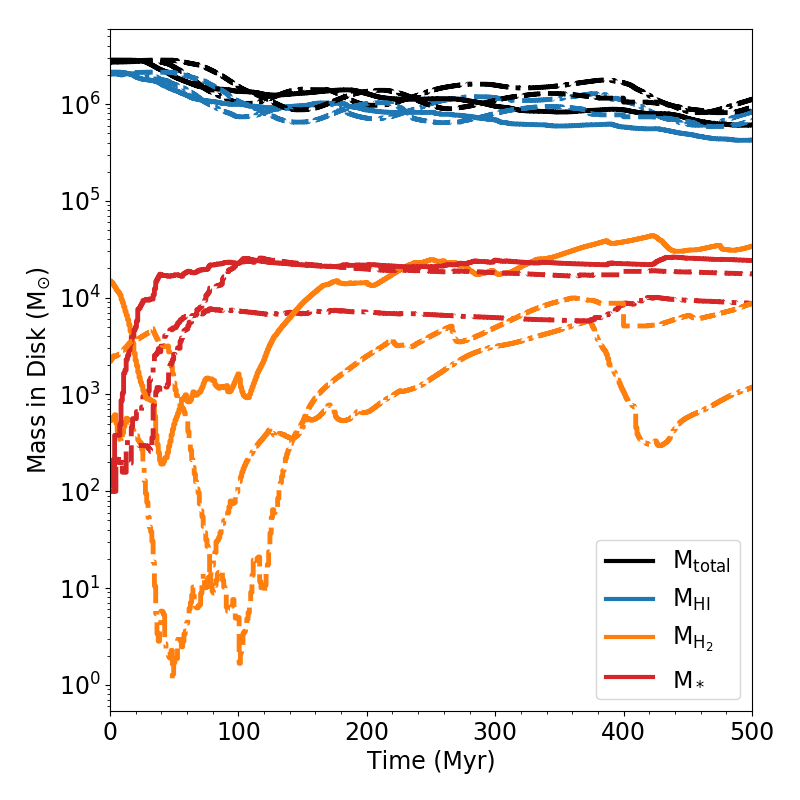
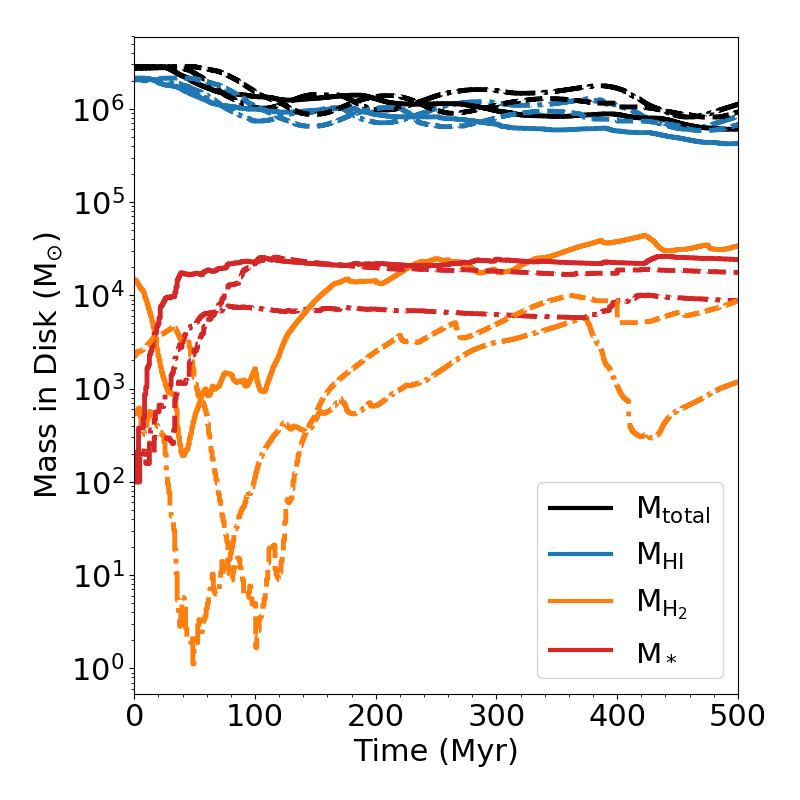
spelling check and font resize in res plots

diff --git a/main.tex b/main.tex
@@ -1,5 +1,3 @@
-%\documentclass[twocolumn]{aastex61}
-%\pdfoutput=1 %for arXiv submission
 \documentclass[fleqn,usenatbib,useAMS]{mnras}
 \usepackage{graphicx}	% Including figure files
 \usepackage{amsmath}	% Advanced maths commands
@@ -16,29 +14,20 @@
 %\usepackage[T1]{fontenc}
 \usepackage[figure,figure*]{hypcap}
 
-\hypersetup{draft}
+%\hypersetup{draft}
 %\usepackage{multirow}
 %\usepackage{mathtools}
 %\renewcommand*{\sectionautorefname}{Section} %for \autoref
 %\renewcommand*{\subsectionautorefname}{Section} %for \autoref
 %\usepackage{graphicx}
-
-%\usepackage{apjfonts} 
 %\usepackage{natbib} % bibliography
 
 
 %\usepackage[active,floats,tightpage]{preview}
 %    \setlength\PreviewBorder{1em}
 
-
-%\shorttitle{Feedback with Individual Stars}
-%\shortauthors{Emerick, Bryan, Mac Low}
 \newcommand{\msun}{M$_{\odot}$}
 \newcommand{\ccunit}{cm$^{-3}$}
-
-%%%%%%%%%%%%%%%%%%\hypersetup{draft}
-% For bibtex
-
 
 \title[Feedback with Individual Stars]{Simulating an Isolated Dwarf Galaxy with Energetic Feedback and Chemical Yields from Individual Stars}
 
@@ -161,7 +150,7 @@ For the first time in galaxy-scale simulations, we track galactic chemodynamical
 % KVJ: Possibly include a discussion on uncertainties in stellar yields
 %
 
-Above some mass $M_{\rm trans}$ within the unsampled range of 7--12 M$_{\odot}$, stars no longer undergo AGB wind phases but end their lives instead as core collapse SNe. Where this transition occurs is uncertain, but is commonly taken to be at a mass $M_{\rm trans} \sim 8$--10~M$_{\odot}$. This is a free parameter in our model; we take $M_{\rm trans} = 8$~M$_{\odot}$ as our fiducial value. In our model, stars below this mass eject their wind yields in an AGB phase only at the end of their lives, typically over a period comparable to or less than a few time steps ($\lesssim 10$ kyr). Stars above this mass are assumed to eject their stellar yields via line-driven stellar winds at a constant mass loss rate throughout their lifetime (neglecting Wolf-Rayet and luminous blue variable phases), ending their lives as a core-collapse SN (see Sect.~\ref{sec:stellar winds} for details on the wind energetics). Varying $M_{\rm trans}$ changes both the time at which yields for stars around this mass are ejected (for reference, the lifetime of an 8 M$_{\odot}$ star is about 35--40~Myr), and the energy injection from these winds. \citet{Cote2017a} explores how the choice of $M_{\rm trans}$ affects galaxy abundances in a one-zone model. We neglect the effects of binary star evolution on stellar feedback, and discuss the significance of this in Sect.~\ref{sec:binary stars}.
+Above some mass $M_{\rm trans}$ within the unsampled range of 7--12 M$_{\odot}$, stars no longer undergo AGB wind phases but end their lives instead as core collapse SNe. Where this transition occurs is uncertain, but is commonly taken to be at a mass $M_{\rm trans} \sim 8$--10~M$_{\odot}$; we take $M_{\rm trans} = 8$~M$_{\odot}$. In our model, stars below this mass eject their wind yields in an AGB phase only at the end of their lives, typically over a period comparable to or less than a few time steps ($\lesssim 10$ kyr). Stars above this mass are assumed to eject their stellar yields via line-driven stellar winds at a constant mass loss rate throughout their lifetime (neglecting Wolf-Rayet and luminous blue variable phases), ending their lives as a core-collapse SN (see Sect.~\ref{sec:stellar winds} for details on the wind energetics). Varying $M_{\rm trans}$ changes both the time at which yields for stars around this mass are ejected (for reference, the lifetime of an 8 M$_{\odot}$ star is about 35--40~Myr), and the energy injection from these winds. \citet{Cote2017a} explores how the choice of $M_{\rm trans}$ affects galaxy abundances in a one-zone model. We neglect the effects of binary star evolution on stellar feedback, and discuss the significance of this in Sect.~\ref{sec:binary stars}.
 
 There are large uncertainties in stellar yields for stars more massive than 25 M$_{\odot}$ \citep[see ][and references therein]{Cote2016}. Indeed, even the exact fate of these stars is uncertain \citep[e.g.][]{Woosley2002,Zhang2008,Ugliano2012}, particularly as a function of metallicity \citep{Fryer2012} with potentially multiple stable and unstable regimes as a function of mass \citep{Heger2003}. Due to this uncertainty, and to avoid erroneously extrapolating from our yield tables, we adopt the simplest model and assume all stars above 25 M$_{\odot}$ end their life through direct collapse to a compact object with no further mass, metal, or energy ejection.
 
@@ -518,7 +507,7 @@ have been ejected beyond the virial radius. (See Figures \ref{fig:mass_outflow},
 
 \item 
 The gas scale height is thin ($\sim 50$~pc), yet resolved, 
-beyond our stellar radius, with larger scale heights ($\sim 100$--200~pc) driven by feedback interior to the stellar radius. This is comparable to the resolution limit of the diffuse HI in observed, gaseous ultrafaint dwarfs. At a spatial resolution of 100~pc, our galaxy has a peak HI column density $N_{\rm HI} = 2.8--4.3 \times 10^{20}$~cm$^{-2}$, depending on inclination (See Figure~\ref{fig:scale_height}).
+beyond our stellar radius, with larger scale heights ($\sim 100$--200~pc) driven by feedback interior to the stellar radius. This is comparable to the resolution limit of the diffuse HI in observed, gaseous ultrafaint dwarfs. At a spatial resolution of 100~pc, our galaxy has a peak HI column density $N_{\rm HI} = 2.8-4.3 \times 10^{20}$~cm$^{-2}$, depending on inclination (See Figure~\ref{fig:scale_height}).
 
 \item The ISRF of our galaxy varies strongly in both space and time by orders of magnitude. It is unclear how important these fluctuations are as a source of feedback, or if the affect can be approximated with a time-averaged radial profile. (See Figures \ref{fig:ISRF} and \ref{fig:ISRF_2D}.)
 
@@ -646,7 +635,7 @@ Figure~\ref{fig:resolution_study} shows that, while decreasing the resolution ce
 
 Generally ineffective feedback leads to increased, not decreased, star formation rates. However, the lower resolution run has the lowest SFR. The source of this difference is likely related to the ability to resolve dense, cold gas in the lower resolution simulations. In particular, the low resolution simulation clearly is unable to resolve the densities at which gas-phase H$_2$ formation becomes efficient, leading to significantly lower H$_2$ fractions (middle panel) and lower cooling rates. In addition, whatever H$_2$ does form at these lower resolutions exists at lower gas densities than in our fiducial run, and is less well protected by self-shielding effects. This is shown clearly in the significant plummet in the H$_2$ mass during the phase of first star formation that is less severe in our fiducial run. In this low metallicity regime, where H$_2$ is an important coolant, the ability to resolve the densities responsible for H$_2$ formation and self-shielding is important. 
 
-Theses differences in densities are shown clearly by comparing Figure~\ref{fig:phase_diagram} with Figure~\ref{fig:phase_resolution}. Although the lowest temperature reached in each simulation is comparable, there is less gas in the coldest, densest portion of the phase diagram in each of the lower resolution simulations. In the 7.2~pc run, the gas phases are notably less distinct, with gas more evenly smoothed out in the multi-phase region between cold, dense gas and warm, ionized gas. We note the 7.2~pc simulation, which ran quickly, was conducted without the temperature ceiling used in the 3.6~pc and fiducial runs; we do not expect this to have a significant effect on the comparison.
+Theses differences in densities are shown clearly by comparing Figure~\ref{fig:phase} with Figure~\ref{fig:phase_resolution}. Although the lowest temperature reached in each simulation is comparable, there is less gas in the coldest, densest portion of the phase diagram in each of the lower resolution simulations. In the 7.2~pc run, the gas phases are notably less distinct, with gas more evenly smoothed out in the multi-phase region between cold, dense gas and warm, ionized gas. We note the 7.2~pc simulation, which ran quickly, was conducted without the temperature ceiling used in the 3.6~pc and fiducial runs; we do not expect this to have a significant effect on the comparison.
 
 
 \begin{figure*}
